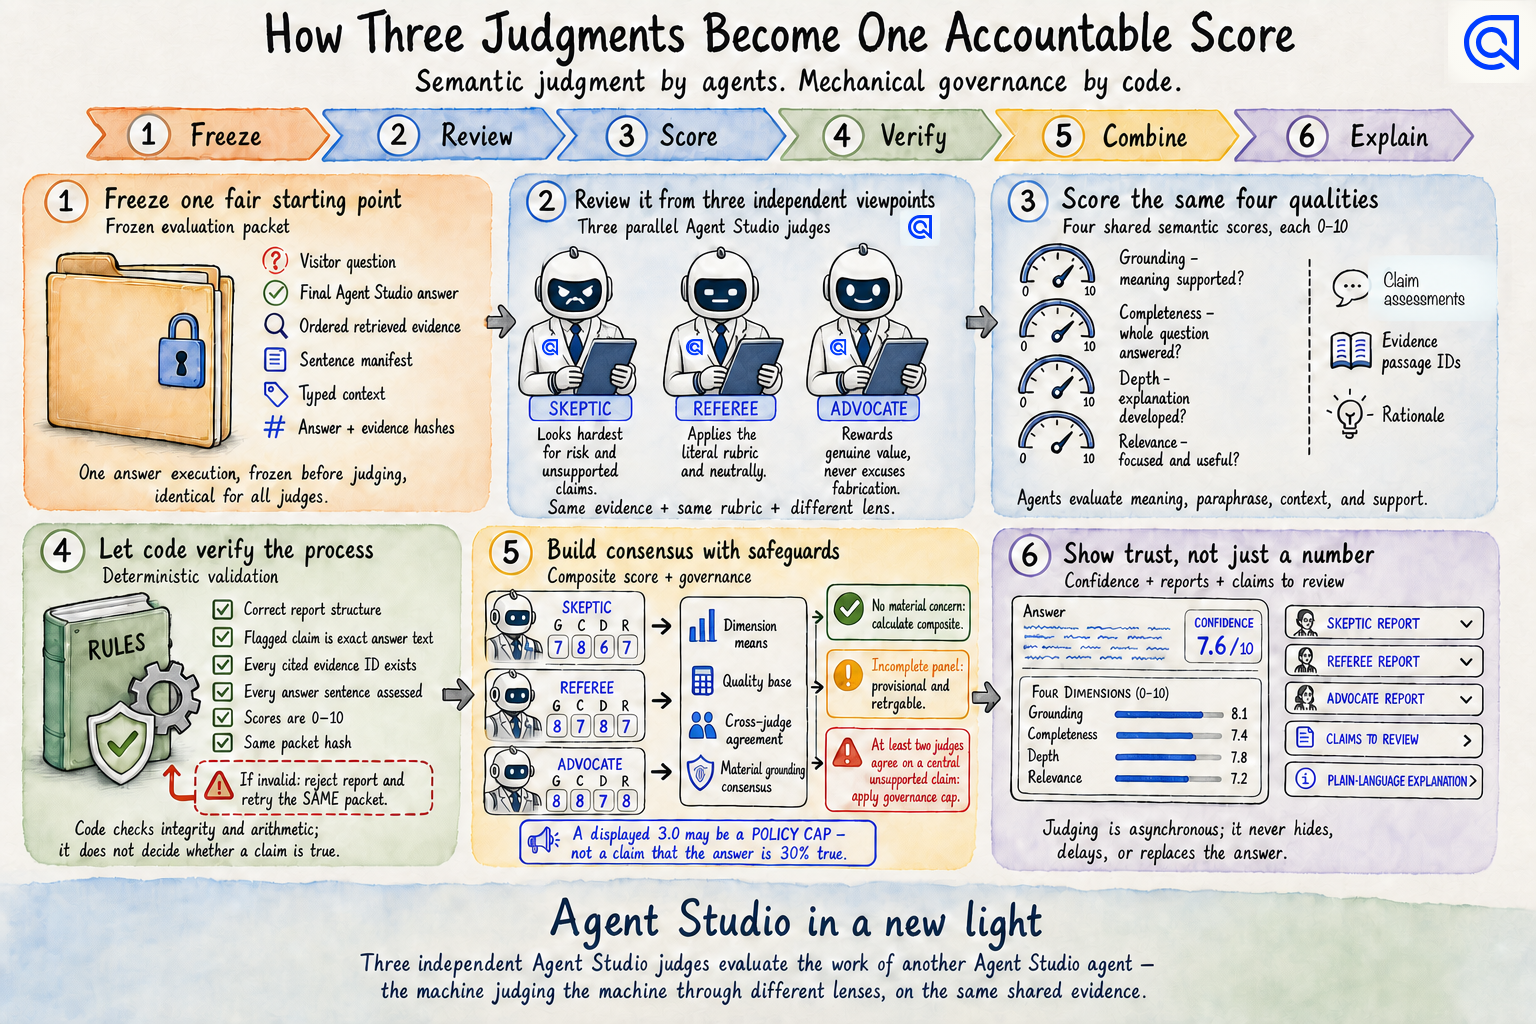
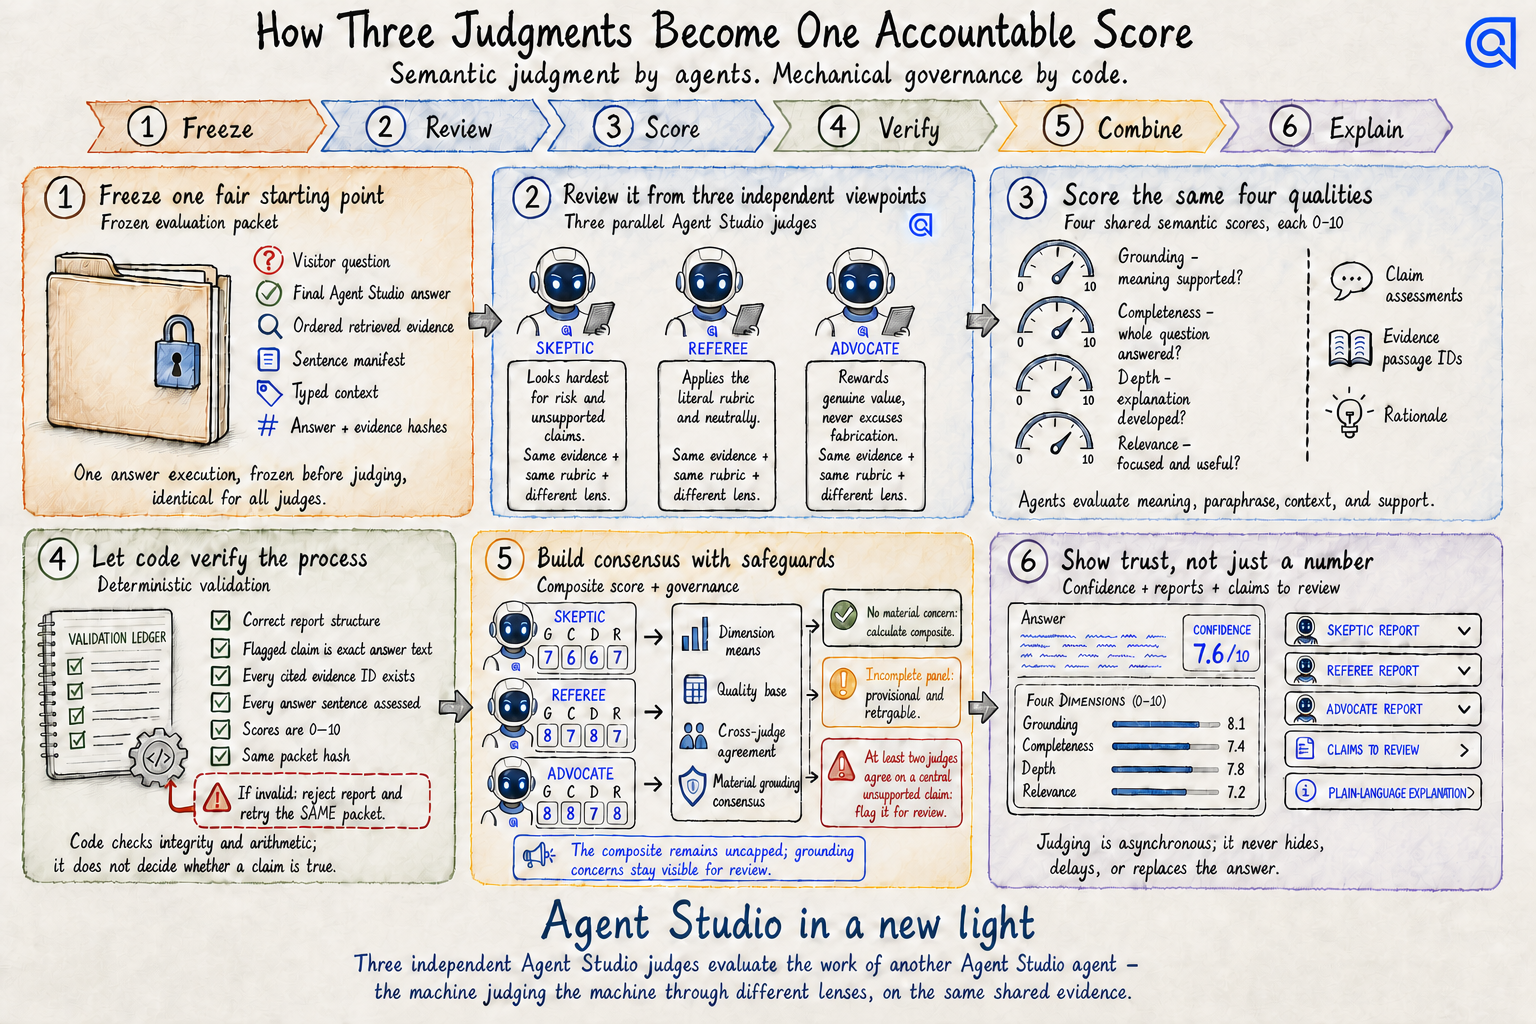
Document concierge and judge architecture

diff --git a/docs/design/content-engagement-architecture.md b/docs/design/content-engagement-architecture.md
@@ -1,0 +1,110 @@
+# Content Engagement Architecture
+
+This page explains the two connected systems behind the Algolia.com content-engagement experience:
+
+1. the personalized concierge that recognizes a visitor's journey and starts a useful conversation;
+2. the asynchronous judge panel that evaluates a completed grounded answer.
+
+The diagrams use business language first and place the implementation detail directly beneath it. The runtime source remains authoritative if implementation and illustration ever drift.
+
+## Personalized Concierge
+
+![How Personalized Concierge Engagement Works](../diagrams/how-personalized-concierge-engagement-works.png)
+
+### 1. Remember what the visitor did
+
+`frontend/chat-widget/algolia-engagement-tracker.js` records page visits, clicks, dwell, scroll, navigation, search, and chat activity.
+
+- `sessionStorage` is the primary working memory for the current tab: `algolia_session`, `algolia_events`, `algolia_proactive_state`, and the active handoff context.
+- `localStorage` contains optional durable profile context in `algolia_profile`, such as anonymous identity and a confirmed persona when one has actually been provided.
+
+The current journey does not depend on a guessed persona. It is driven primarily by observed session behavior.
+
+### 2. Understand the journey and decide when to help
+
+`frontend/chat-widget/algolia-context-compiler.js` converts browser state into `AlgoliaContextPacket.v1` and a bounded `AlgoliaTurnContext.v1`. The packet preserves the broader journey while identifying the immediate page move used for a transition decision.
+
+`frontend/chat-widget/algolia-proactive-controller.js` applies deterministic trigger rules. It checks the current page or direct transition, dwell and scroll qualification, duplicate suppression, cooldown, session limits, widget readiness, page visibility, and whether a greeting or conversation is already active.
+
+Current page-moment qualification is 3 seconds of dwell and 30% scroll. The controller owns the trigger decision; the language model does not decide whether a trigger fired.
+
+### 3. Start the right conversation
+
+When a moment qualifies, the controller sends the visitor context, why-now signal, and message goal to the Agent Studio `www Chat - Proactive Concierge` agent. The agent returns one personalized greeting and up to three useful choices using the `ProactiveGreetingResponse.v1` contract.
+
+The controller validates that response and the chat widget displays it. The visitor can select a choice or type a different response; the interaction is not scripted.
+
+### 4. Continue with the full story
+
+`frontend/chat-widget/handoff-to-orchestrator.js` packages:
+
+- the same visitor context;
+- the greeting shown;
+- every choice shown;
+- the selected choice, if any;
+- the visitor's typed response, if any.
+
+The main Agent Studio `www Chat - Orchestrator` receives that `ProactiveHandoffContext.v1`, retrieves evidence, answers with the full journey in mind, and asks one useful discovery question. The handoff is JavaScript transport code, not a second conversational agent.
+
+For the full storage, trigger, greeting, and handoff contracts, see [`docs/customer-documentation/proactive-engagement/README.md`](../customer-documentation/proactive-engagement/README.md).
+
+## Asynchronous Judge Panel
+
+![How Three Judgments Become One Accountable Score](../diagrams/How%20Judges%20Work.png)
+
+The judge panel evaluates the answer after answer execution. It does not hide, delay, or replace the answer.
+
+### 1. Freeze one fair starting point
+
+`frontend/chat-widget/algolia-judge-core.js` creates one immutable evaluation package containing the visitor question, final answer, ordered retrieved evidence, sentence manifest, typed context, and answer/evidence hashes. Every judge receives the same package.
+
+### 2. Review through three independent lenses
+
+Three Agent Studio agents run in parallel with no search tool:
+
+- `Algolia_Judge_Skeptic` looks hardest for material risk and unsupported claims.
+- `Algolia_Judge_Referee` applies the shared rubric literally and neutrally.
+- `Algolia_Judge_Advocate` recognizes genuine value without excusing fabrication.
+
+Their prompts live in `agents/prompts/judge/`; their configuration lives in `agents/admin/algoliaComConfig.mjs`.
+
+### 3. Score the same four qualities
+
+Each judge scores four semantic dimensions from 0 to 10:
+
+- **Grounding:** Is the answer supported by the supplied evidence?
+- **Completeness:** Did it answer the whole question?
+- **Depth:** Is the explanation sufficiently developed?
+- **Relevance:** Is it focused and useful?
+
+Judges also return claim assessments, evidence references, and rationale.
+
+### 4. Let code verify the process
+
+Deterministic code validates the report shape, role, score bounds, exact flagged answer text, sentence references, evidence IDs, and evaluation identity. An invalid report is rejected and can be retried against the same frozen packet with precise validation feedback. Code verifies integrity; it does not decide whether a claim is true.
+
+### 5. Build consensus with safeguards
+
+At least two valid reports are required. Two reports produce a provisional result; three produce a complete panel.
+
+- Dimension scores are the mean across valid judges.
+- The composite is the mean of Grounding, Completeness, Depth, and Relevance.
+- A grounding finding becomes a panel finding when at least two judges agree on the same answer claim.
+- The current runtime does not cap the composite (`appliedCap` is `null`). Grounding findings remain visible separately for review.
+
+### 6. Show trust, not just a number
+
+`frontend/chat-widget/algolia-confidence-badge.js` presents the composite, four dimension scores, per-judge reports, claims to review, and a plain-language explanation. If fewer than two judges return valid reports, confidence is unavailable rather than fabricated.
+
+## Source Of Truth
+
+| Concern | Authoritative source |
+|---|---|
+| Browser tracking and storage | `frontend/chat-widget/algolia-engagement-tracker.js` |
+| Journey compilation | `frontend/chat-widget/algolia-context-compiler.js` |
+| Trigger decisions and greeting request | `frontend/chat-widget/algolia-proactive-controller.js` |
+| Greeting-to-orchestrator handoff | `frontend/chat-widget/handoff-to-orchestrator.js` |
+| Judge packet, validation, and aggregation | `frontend/chat-widget/algolia-judge-core.js` |
+| Judge presentation | `frontend/chat-widget/algolia-confidence-badge.js` |
+| Agent Studio configuration | `agents/admin/algoliaComConfig.mjs` |
+| Agent prompts | `agents/prompts/` |

diff --git a/docs/diagrams/assets/agent-studio-agent-family-reference.md b/docs/diagrams/assets/agent-studio-agent-family-reference.md
@@ -1,0 +1,46 @@
+# Agent Studio Agent Family Reference
+
+## Purpose
+
+This is the shared visual canon for Agent Studio agents across the Content Engagement diagram family. Different jobs use the same underlying agent design.
+
+## Canonical Base Actor
+
+- White mechanical head and torso with restrained charcoal ink linework.
+- Rounded navy faceplate with two simple luminous eyes.
+- Circular integrated ear discs.
+- Blue collar accent.
+- Small white chest badge carrying the exact official Algolia symbol.
+- Editorial hand-drawn treatment with pale watercolor accents.
+- Natural proportions; no mascot, toy, or science-fiction styling.
+
+## Role Layer
+
+The chassis never changes. A role may change only:
+
+- facial expression;
+- posture;
+- role label;
+- one functional prop or surrounding artifact.
+
+| Role | Expression | Functional cue |
+|---|---|---|
+| Greetings Agent | Warm and welcoming | Greeting and choice bubbles |
+| Orchestrator | Focused and attentive | Visitor context bundle or full-story book |
+| Skeptic | Restrained frown | Risk review sheet |
+| Referee | Neutral straight mouth | Rubric or scoring sheet |
+| Advocate | Restrained smile | Value review sheet |
+
+## Brand Invariant
+
+Every depicted Agent Studio agent carries the same exact repository-owned Algolia symbol in the same chest-badge location and relative scale. Generated or approximated logos are not accepted for canonical publication.
+
+## Reference Image
+
+- Image: `agent-studio-agent-family-reference.png`
+- Dimensions: 2048 x 768
+- Status: reusable visual reference; final diagram promotion still requires exact deterministic logo compositing and full-image fact validation.
+
+## Acceptance Test
+
+Place any two diagrams side by side. The Agent Studio actors must be recognizable as the same family before reading their labels. If the base silhouette, faceplate, ear discs, torso, collar, or badge placement changes, reject the new diagram.

diff --git a/README.md b/README.md
@@ -28,6 +28,7 @@ Start here for the folder map and current runtime boundaries.
 | `config/` | Public configuration notes only. Secrets stay in ignored local env files. |
 | `docs/customer-documentation/` | Narrative documentation chapters written for the project/customer record. |
 | `docs/design/` | Durable architecture, design, and implementation contracts. |
+| `docs/diagrams/` | Canonical architecture diagrams and their content contracts. |
 | `docs/evidence/` | Compact validation evidence and reports that should remain reviewable in Git. |
 | `docs/operations/` | Active operational packets and mutation evidence. Generated run payloads are ignored. |
 
@@ -38,6 +39,7 @@ Start here for the folder map and current runtime boundaries.
 - `skills/algolia-data-enrichment/` is the project-local skill. Do not use a global `.claude/skills/algolia-data-enrichment` copy for this project.
 - Proactive engagement runtime source files live directly in `frontend/chat-widget/`: `algolia-engagement-tracker.js`, `algolia-context-compiler.js`, `algolia-proactive-controller.js`, and `handoff-to-orchestrator.js`.
 - Generated batches, caches, snapshots, and work queues are intentionally ignored and should not be committed.
+- Start with `docs/design/content-engagement-architecture.md` for the end-to-end concierge and judge architecture.
 
 ## Common Commands
 

diff --git a/docs/diagrams/how-judges-work.md b/docs/diagrams/how-judges-work.md
@@ -1,0 +1,24 @@
+# How Judges Work
+
+Canonical diagram: [`How Judges Work.png`](How%20Judges%20Work.png)
+
+## Content Contract
+
+- Stages: Freeze, Review, Score, Verify, Combine, Explain.
+- Every judge receives the same frozen evaluation packet.
+- The Skeptic, Referee, and Advocate are the same Agent Studio actor with different role expressions and labels.
+- Every judge scores Grounding, Completeness, Depth, and Relevance from 0 to 10.
+- Deterministic code validates structure, identity, references, and arithmetic.
+- At least two valid judge reports are required.
+- Consensus unsupported claims are flagged for review.
+- The composite remains uncapped; grounding concerns remain separately visible.
+- Judging is asynchronous and never hides, delays, or replaces the answer.
+
+## Visual Contract
+
+- Executive hand-drawn editorial style on luminous watercolor paper.
+- The palette matches the concierge diagram.
+- Official Algolia marks identify the artifact and Agent Studio ownership.
+- Functional artifacts and compact role portraits take precedence over cartoon scenes.
+
+Resolution: 1536 x 1024 pixels.

diff --git a/docs/diagrams/how-personalized-concierge-engagement-works.md b/docs/diagrams/how-personalized-concierge-engagement-works.md
@@ -1,0 +1,23 @@
+# How Personalized Concierge Engagement Works
+
+Canonical diagram: [`how-personalized-concierge-engagement-works.png`](how-personalized-concierge-engagement-works.png)
+
+## Content Contract
+
+- Stages: Browse, Decide, Engage, Continue.
+- Stage 1 distinguishes optional durable browser profile from primary current-visit memory.
+- Stage 2 shows compiler context creation and deterministic controller outcomes.
+- Stages 3 and 4 both receive the qualified moment and visitor context from Stage 2.
+- The Greetings Agent and Orchestrator share one canonical Agent Studio actor design.
+- Algolia ownership marks identify Agent Studio and chat-widget components.
+- The handoff is code, not an agent.
+- The Orchestrator receives one visitor-story notebook; no unexplained secondary artifact is present.
+
+## Visual Contract
+
+- Executive hand-drawn editorial style on luminous watercolor paper.
+- One semantic watercolor family per stage.
+- Exact Algolia mark in the upper-right corner.
+- Functional objects carry the explanation; characters remain secondary.
+
+Resolution: 1536 x 1024 pixels.

diff --git a/docs/README.md b/docs/README.md
@@ -6,6 +6,7 @@ This folder separates readable project documentation from generated execution ou
 |---|---|
 | `customer-documentation/` | Narrative chapters and end-customer documentation. |
 | `design/` | Architecture, behavior contracts, implementation plans, and experiments. |
+| `diagrams/` | Canonical visual explainers and their content contracts. |
 | `evidence/` | Compact validation reports, screenshots, probes, and readbacks. |
 | `operations/` | Active operational packets and mutation evidence. |
 | `program/` | Durable project coordination notes. Asana is the task source of truth. |
@@ -13,3 +14,6 @@ This folder separates readable project documentation from generated execution ou
 Generated batches, fetched page caches, full run directories, snapshots, and work queues do
 not belong in Git. Keep durable summaries in `docs/evidence/` and executable process in
 project-owned source folders.
+
+The current system overview is in
+[`design/content-engagement-architecture.md`](design/content-engagement-architecture.md).
